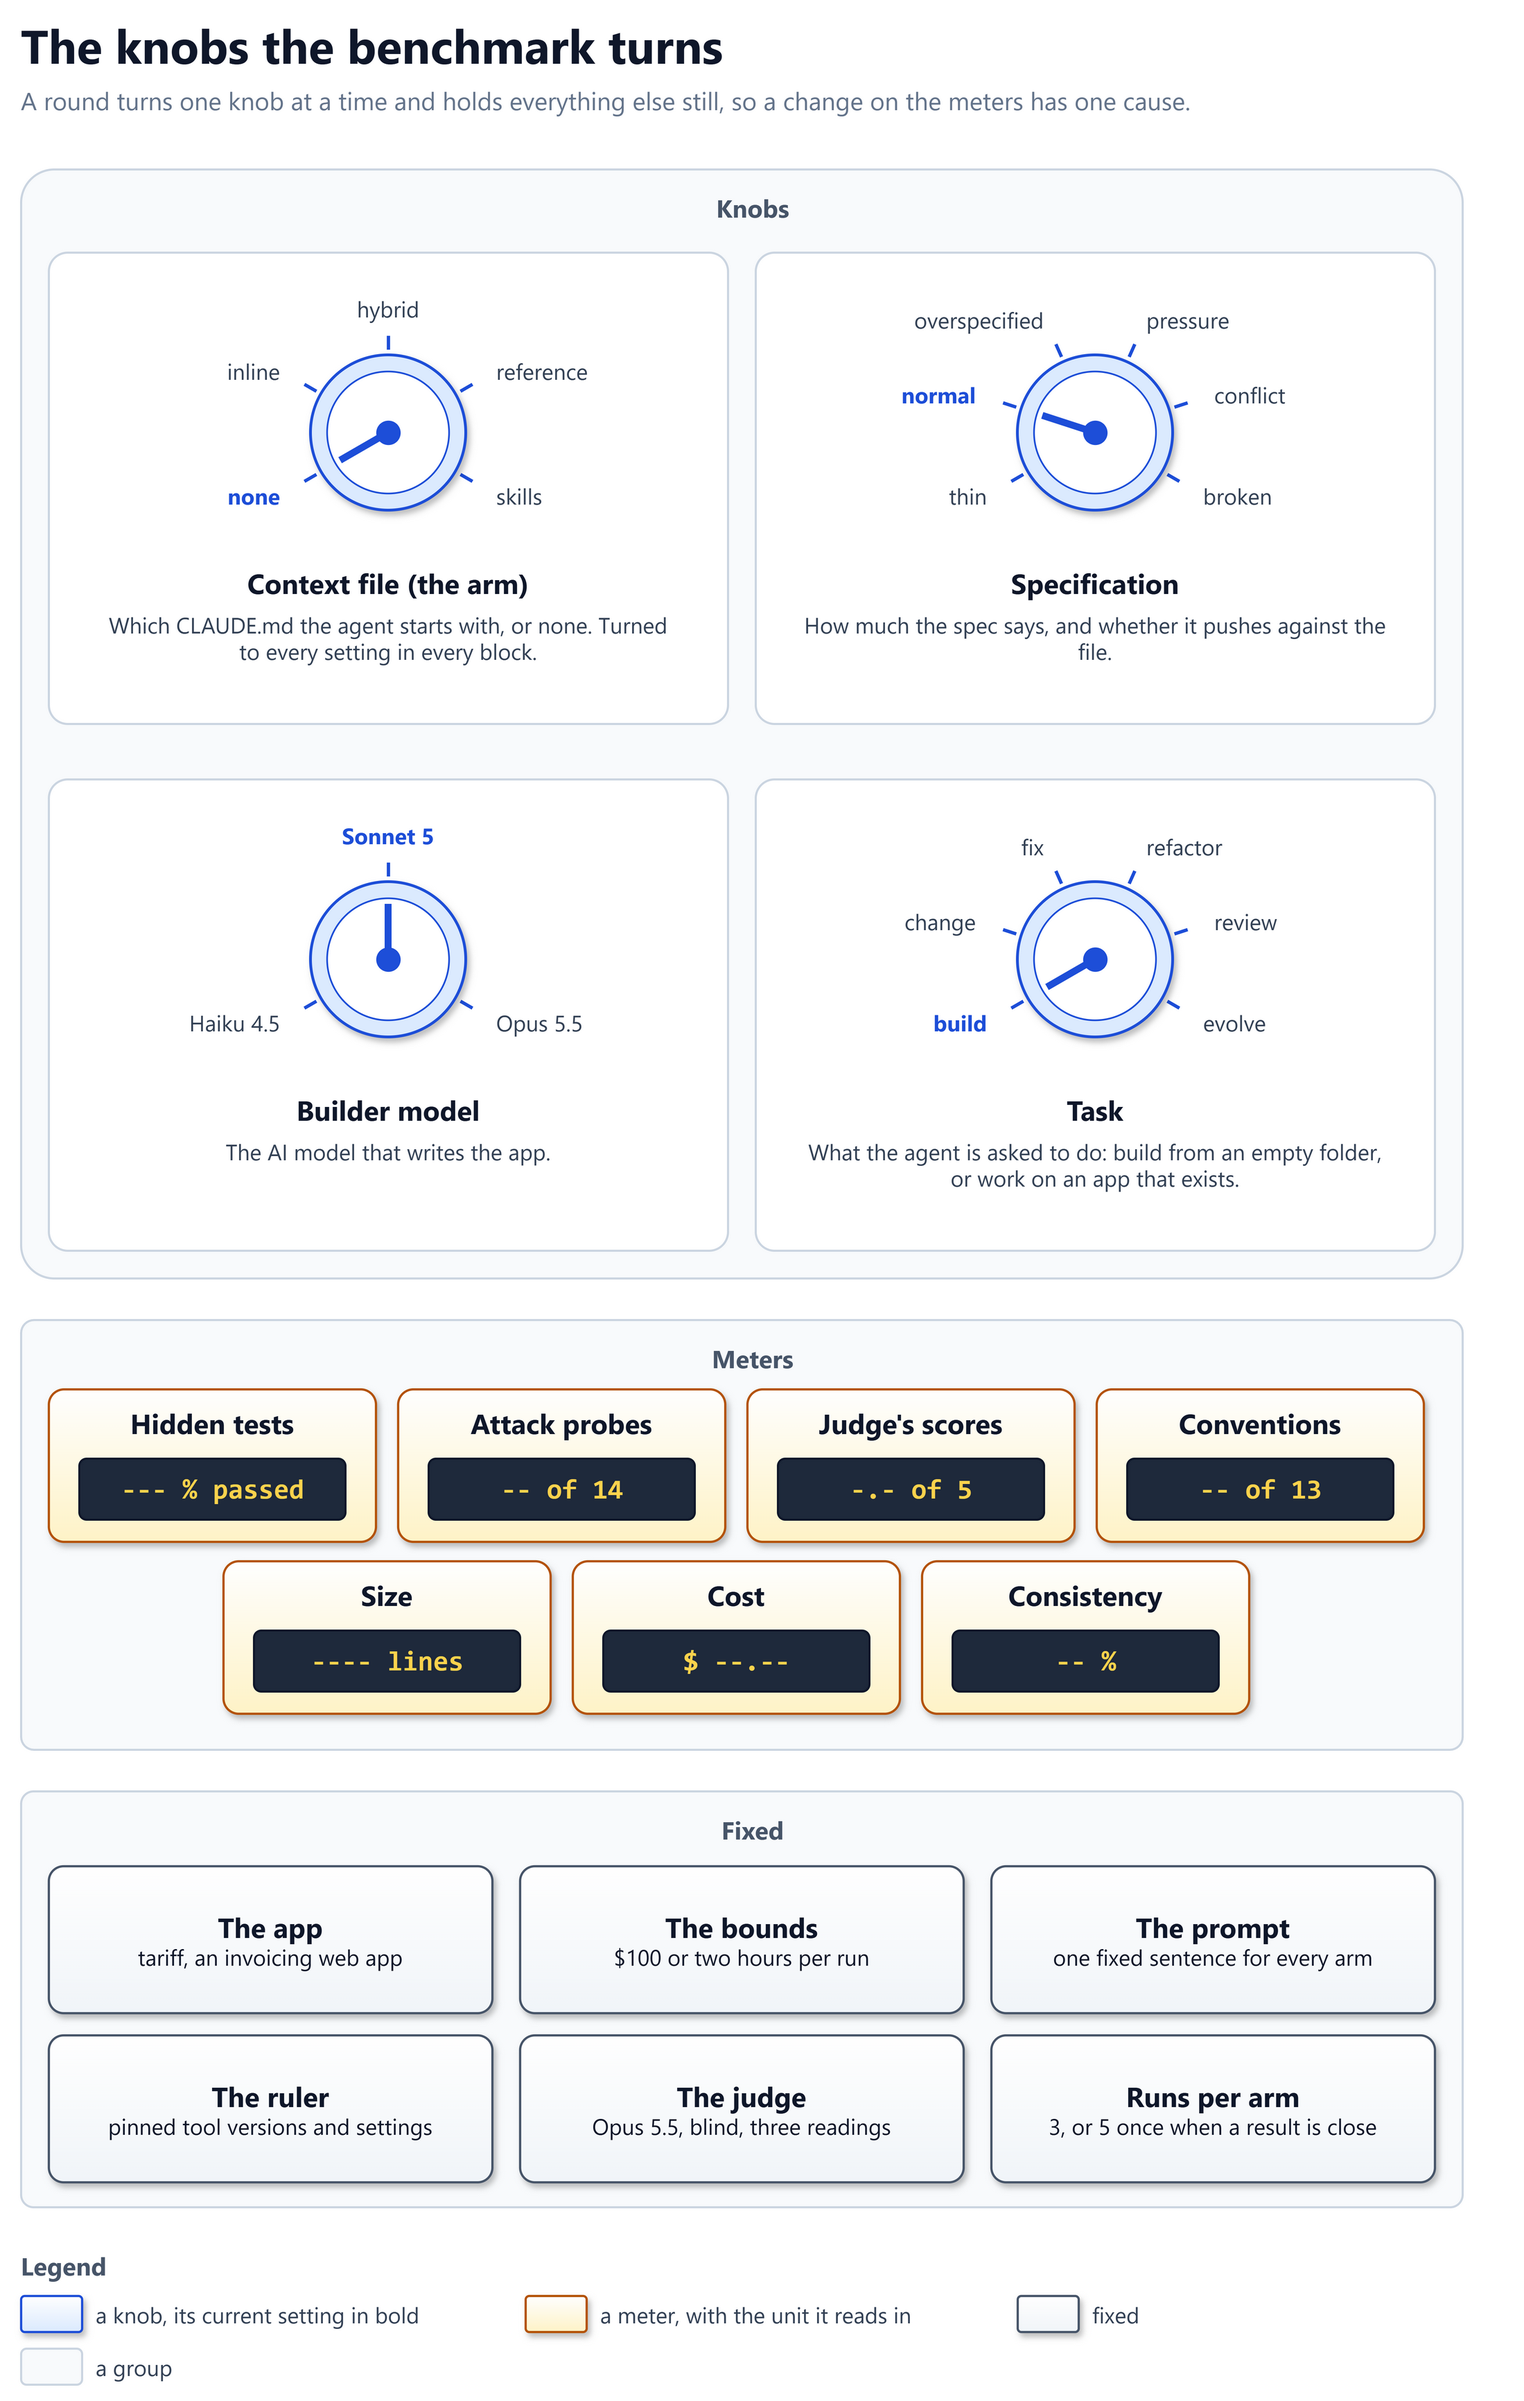
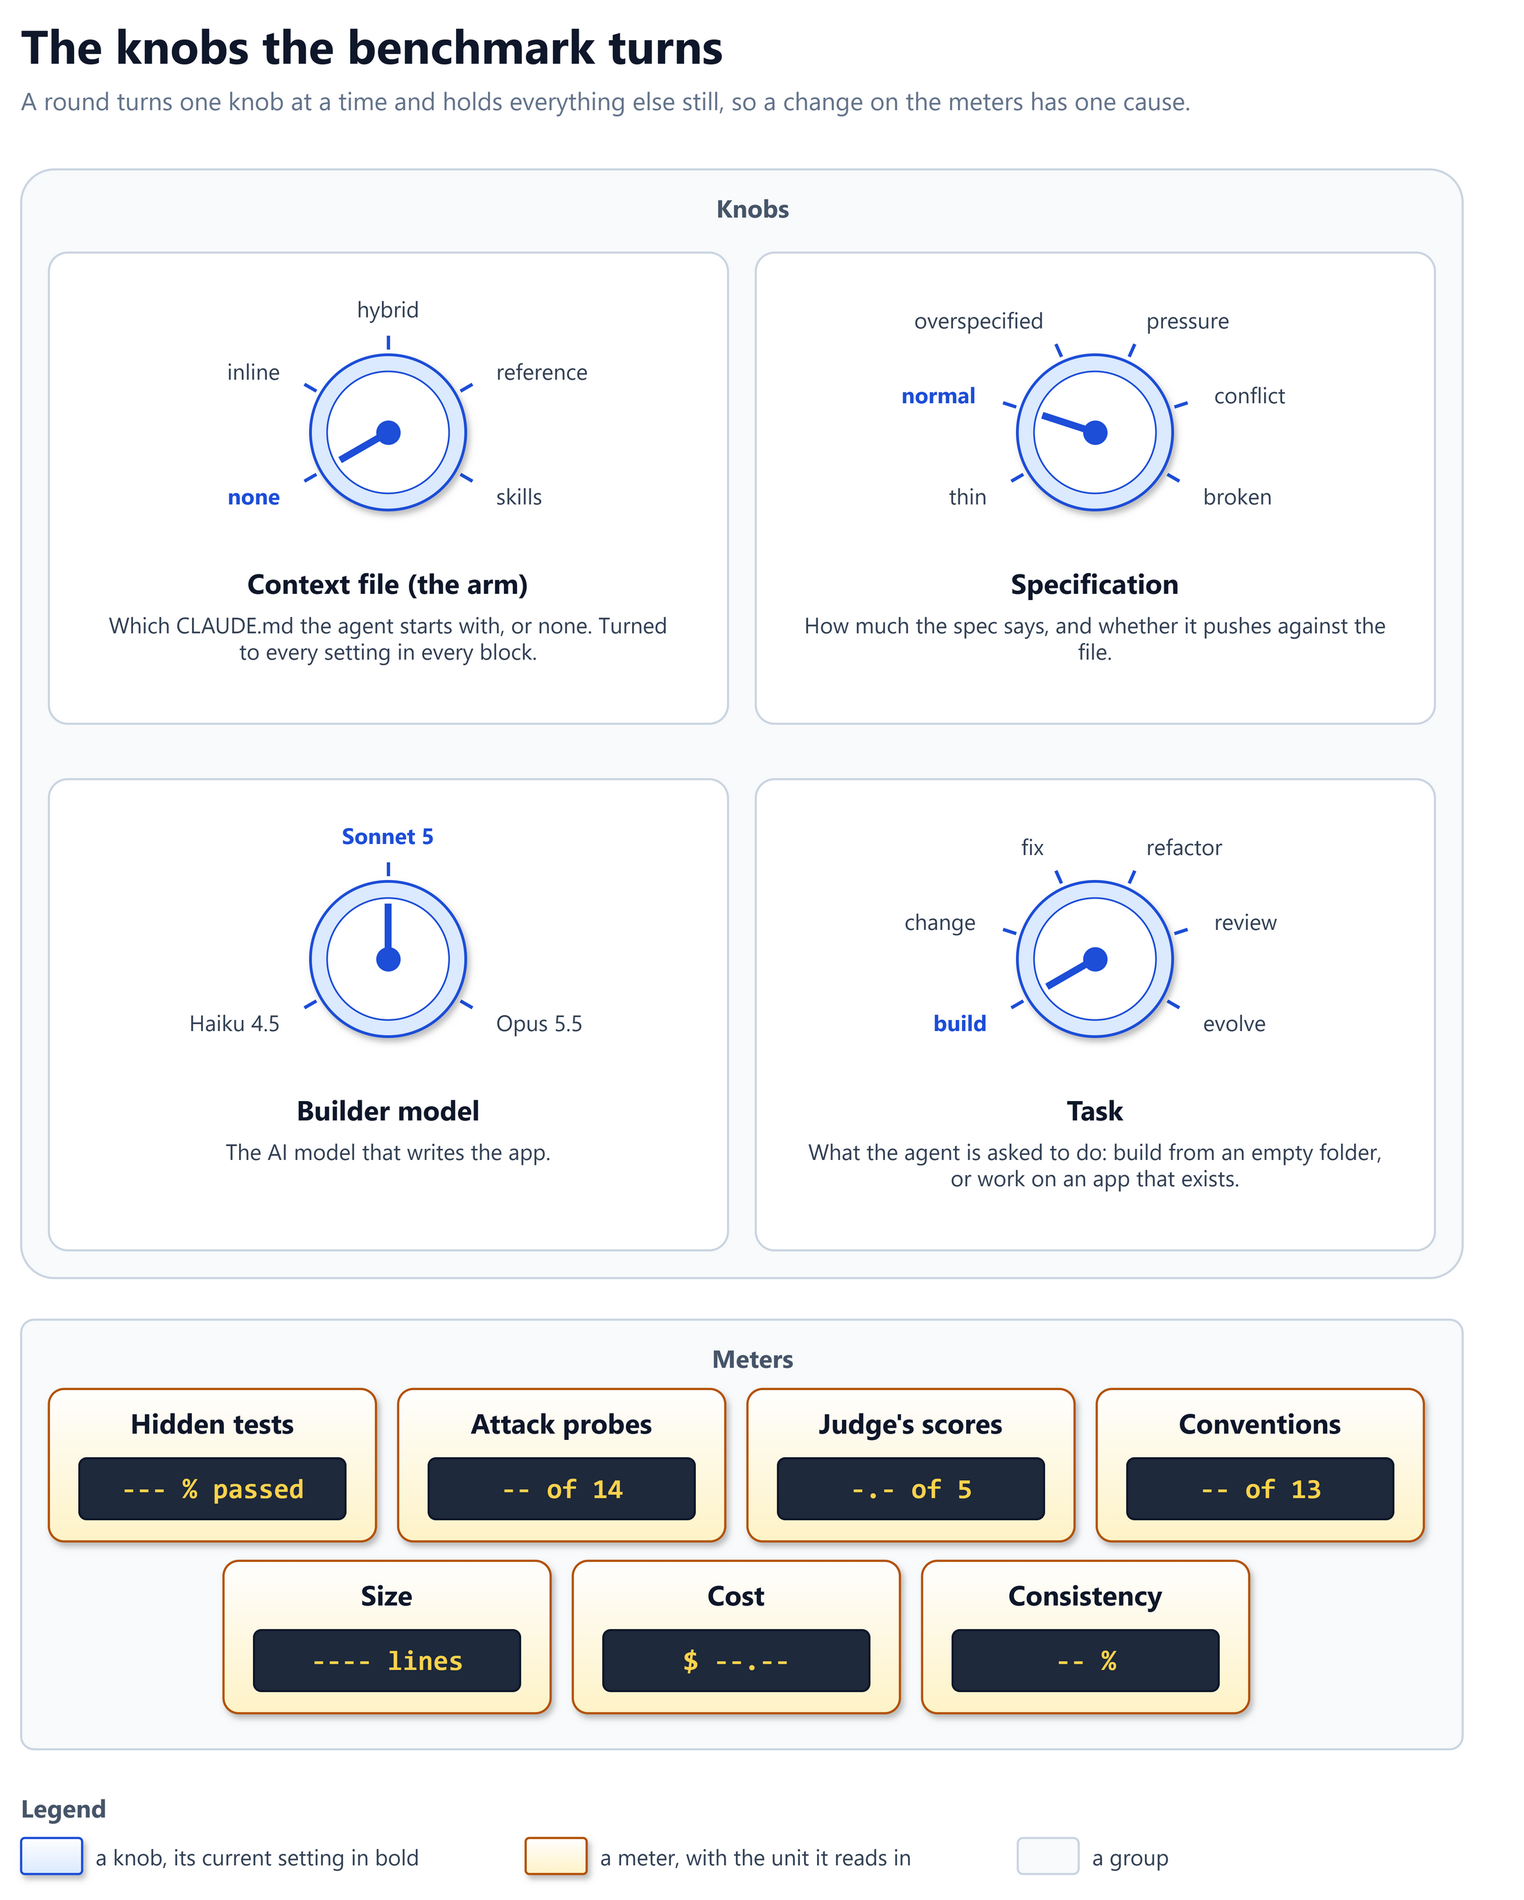
docs(primer): list what is fixed as text, not in the knobs diagram
The diagram shows the test machine: its knobs and its meters. What every
run holds fixed moves to a bullet list under the knob table.

Claude-Session: https://claude.ai/code/session_01HVh8GVGd72WUJ3BvM7TXQn

diff --git a/docs/primer.md b/docs/primer.md
@@ -46,7 +46,7 @@ one sitting and strict enough that a wrong cent shows.
 A round turns one knob at a time and holds everything else still. Then any
 change on the meters has one cause.
 
-![Four knobs the benchmark turns, each with its settings: the context file (none, inline, hybrid, reference, skills, with none selected), the specification (thin, normal, overspecified, pressure, conflict, broken, with normal selected), the builder model (Haiku 4.5, Sonnet 5, Opus 5.5, with Sonnet 5 selected) and the task (build, change, fix, refactor, review, evolve, with build selected). Below them, the meters: hidden tests, attack probes, the judge's scores, conventions, size, cost, and consistency, how alike an arm's runs are. Below that, what is fixed in every run: the app, the bounds of $100 or two hours, the prompt, the ruler, the judge and the runs per arm, 3 or 5 once when a result is close.](diagrams/knobs.png)
+![Four knobs the benchmark turns, each with its settings: the context file (none, inline, hybrid, reference, skills, with none selected), the specification (thin, normal, overspecified, pressure, conflict, broken, with normal selected), the builder model (Haiku 4.5, Sonnet 5, Opus 5.5, with Sonnet 5 selected) and the task (build, change, fix, refactor, review, evolve, with build selected). Below them, the meters: hidden tests, attack probes, the judge's scores, conventions, size, cost, and consistency, how alike an arm's runs are.](diagrams/knobs.png)
 
 | Knob | Settings | What turning it asks |
 | ---- | -------- | -------------------- |
@@ -54,6 +54,16 @@ change on the meters has one cause.
 | Specification | `thin`, `normal`, `overspecified`, `pressure`, `conflict`, `broken` | Does a file supply what the spec leaves out, and hold or yield when the spec pushes against it |
 | Builder model | Haiku 4.5, Sonnet 5, Opus 5.5 | Does a file help a weaker model more, and a stronger one less |
 | Task | build, change, fix, refactor, review, evolve | Does a file help beyond a first build, and over a project's life |
+
+Fixed in every run, so only the knobs can move the meters:
+
+- **The app:** `tariff`, a small invoicing web app
+- **The bounds:** at most $100 or two hours per run
+- **The prompt:** one fixed sentence, the same for every arm
+- **The ruler:** the same tool versions and settings for every run
+- **The judge:** Claude Opus 5.5, blind to the arm, reading each app three
+  times
+- **Runs per arm:** 3, or 5 once when a result is close
 
 The six specs:
 
